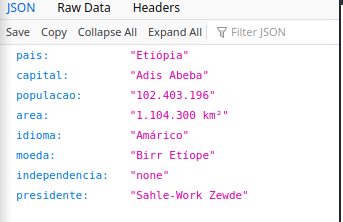
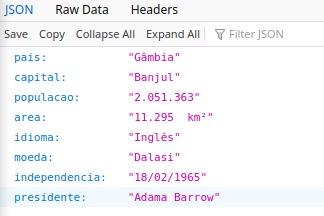
Updating Readme file

diff --git a/Readme.md b/Readme.md
@@ -35,7 +35,7 @@
 
 * URL/{pais} => esta é a rota que retorna um pais especificado no parametro {pais}.
 
-    Ex: rota: http://localhost/countries/etiópia
+    Ex: rota: http://localhost/countries/gâmbia
         </br>
         retorno:</br>
         <img src="./one.png">
